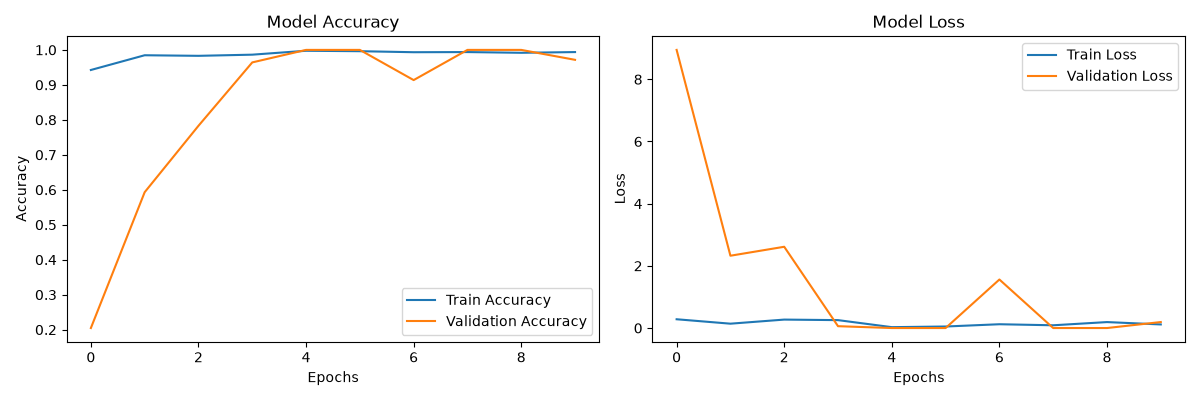
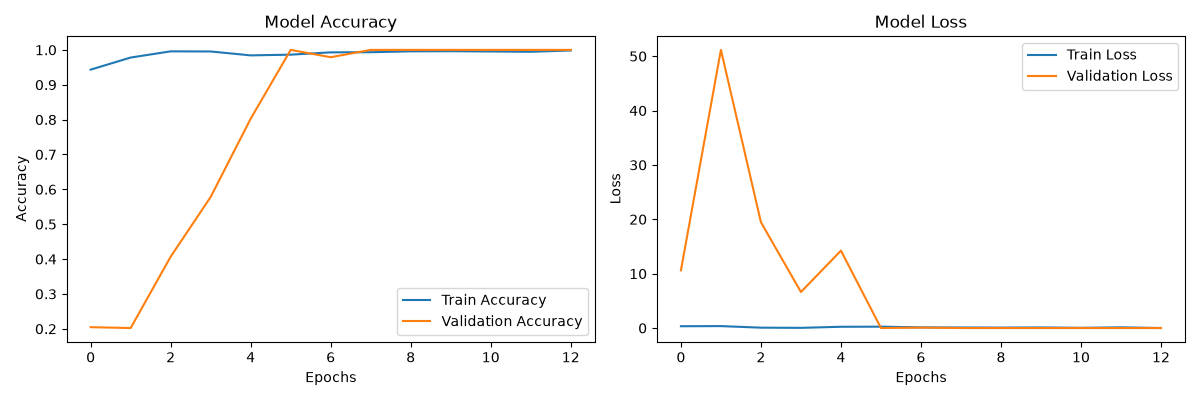
chore: update training results image for improved visualization

diff --git a/predict.py b/predict.py
@@ -2,93 +2,81 @@ import argparse
 import os
 
 import numpy as np
-from PIL import Image, ImageEnhance, ImageOps
+from PIL import Image
 from tensorflow.keras.models import load_model
-from tensorflow.keras.preprocessing import image
-
 
 MODEL_PATH = "models/fruit_classifier.h5"
 CLASS_INDICES_PATH = "models/class_indices.npy"
+IMG_SIZE = (100, 100)
 
 
-def load_class_names(class_indices_path: str) -> list[str]:
-    class_indices = np.load(class_indices_path, allow_pickle=True).item()
-    index_to_class = {idx: name for name, idx in class_indices.items()}
-    return [index_to_class[i] for i in range(len(index_to_class))]
+def load_class_names(path):
+    if not os.path.exists(path):
+        raise FileNotFoundError(f"Class indices file not found: {path}. Run train.py first.")
+
+    class_indices = np.load(path, allow_pickle=True).item()
+    class_names = [None] * len(class_indices)
+    for name, index in class_indices.items():
+        class_names[index] = name
+    return class_names
 
 
-def predict_with_tta(model, image_path: str, img_size: tuple[int, int]) -> np.ndarray:
-    # Average several transformed views to improve robustness on real-world photos.
-    base = Image.open(image_path).convert("RGB")
-    variants: list[Image.Image] = [
-        base,
-        ImageOps.mirror(base),
-        base.rotate(-10, resample=Image.Resampling.BILINEAR, fillcolor=(255, 255, 255)),
-        base.rotate(10, resample=Image.Resampling.BILINEAR, fillcolor=(255, 255, 255)),
-        ImageEnhance.Brightness(base).enhance(0.9),
-        ImageEnhance.Brightness(base).enhance(1.1),
-        ImageEnhance.Contrast(base).enhance(1.1),
-    ]
-
-    batch: list[np.ndarray] = []
-    for variant in variants:
-        resized = variant.resize(img_size, Image.Resampling.BILINEAR)
-        batch.append(image.img_to_array(resized) / 255.0)
-
-    stacked = np.stack(batch, axis=0)
-    predictions = model.predict(stacked, verbose=0)
-    return np.mean(predictions, axis=0)
-
-
-def predict_single_image(image_path: str, img_size: tuple[int, int]) -> None:
-    if not os.path.exists(MODEL_PATH):
-        raise FileNotFoundError(
-            f"Model not found at {MODEL_PATH}. Run train.py first."
-        )
-
-    if not os.path.exists(CLASS_INDICES_PATH):
-        raise FileNotFoundError(
-            f"Class indices not found at {CLASS_INDICES_PATH}. Run train.py first."
-        )
-
+def preprocess_image(image_path, target_size):
     if not os.path.exists(image_path):
-        raise FileNotFoundError(f"Image not found: {image_path}")
+        raise FileNotFoundError(f"Image file not found: {image_path}")
 
-    model = load_model(MODEL_PATH)
-    class_names = load_class_names(CLASS_INDICES_PATH)
+    image = Image.open(image_path).convert("RGB")
+    image = image.resize(target_size)
+    image_array = np.array(image, dtype=np.float32) / 255.0
+    return image_array
 
-    probabilities = predict_with_tta(model, image_path, img_size)
-    predicted_index = int(np.argmax(probabilities))
+
+def predict_image(model, class_names, image_path, img_size):
+    image_array = preprocess_image(image_path, img_size)
+    image_batch = np.expand_dims(image_array, axis=0)
+    predictions = model.predict(image_batch, verbose=0)
+    predicted_index = int(np.argmax(predictions[0]))
+    confidence = float(predictions[0][predicted_index])
     predicted_class = class_names[predicted_index]
-    confidence = float(probabilities[predicted_index])
-
-    print(f"Predicted class: {predicted_class}")
-    print(f"Confidence: {confidence * 100:.2f}%")
-
-    print("\nClass probabilities:")
-    for idx, class_name in enumerate(class_names):
-        print(f"- {class_name}: {probabilities[idx] * 100:.2f}%")
+    return predicted_class, confidence, predictions[0]
 
 
-def parse_args() -> argparse.Namespace:
-    parser = argparse.ArgumentParser(description="Predict fruit class for a single image.")
-    parser.add_argument(
-        "--image",
-        type=str,
-        required=True,
-        help="Path to the image file.",
-    )
+def parse_args():
+    parser = argparse.ArgumentParser(description="Predict the fruit class for a single image.")
+    parser.add_argument("--image", "-i", required=True, help="Path to the input image file.")
     parser.add_argument(
         "--img-size",
         type=int,
         nargs=2,
-        default=(100, 100),
+        default=IMG_SIZE,
         metavar=("WIDTH", "HEIGHT"),
-        help="Image size expected by the model.",
+        help="Target image size for the model.",
     )
     return parser.parse_args()
 
 
-if __name__ == "__main__":
+def main():
     args = parse_args()
-    predict_single_image(image_path=args.image, img_size=tuple(args.img_size))
+
+    if not os.path.exists(MODEL_PATH):
+        raise FileNotFoundError(f"Model file not found: {MODEL_PATH}. Run train.py first.")
+
+    print(f"Loading model from {MODEL_PATH}...")
+    model = load_model(MODEL_PATH)
+    class_names = load_class_names(CLASS_INDICES_PATH)
+
+    predicted_class, confidence, prediction_vector = predict_image(
+        model, class_names, args.image, tuple(args.img_size)
+    )
+
+    print("\n=== Prediction ===")
+    print(f"Image: {args.image}")
+    print(f"Predicted class: {predicted_class}")
+    print(f"Confidence: {confidence:.4f}")
+    print("\nClass probabilities:")
+    for idx, class_name in enumerate(class_names):
+        print(f"  {class_name}: {prediction_vector[idx]:.4f}")
+
+
+if __name__ == "__main__":
+    main()